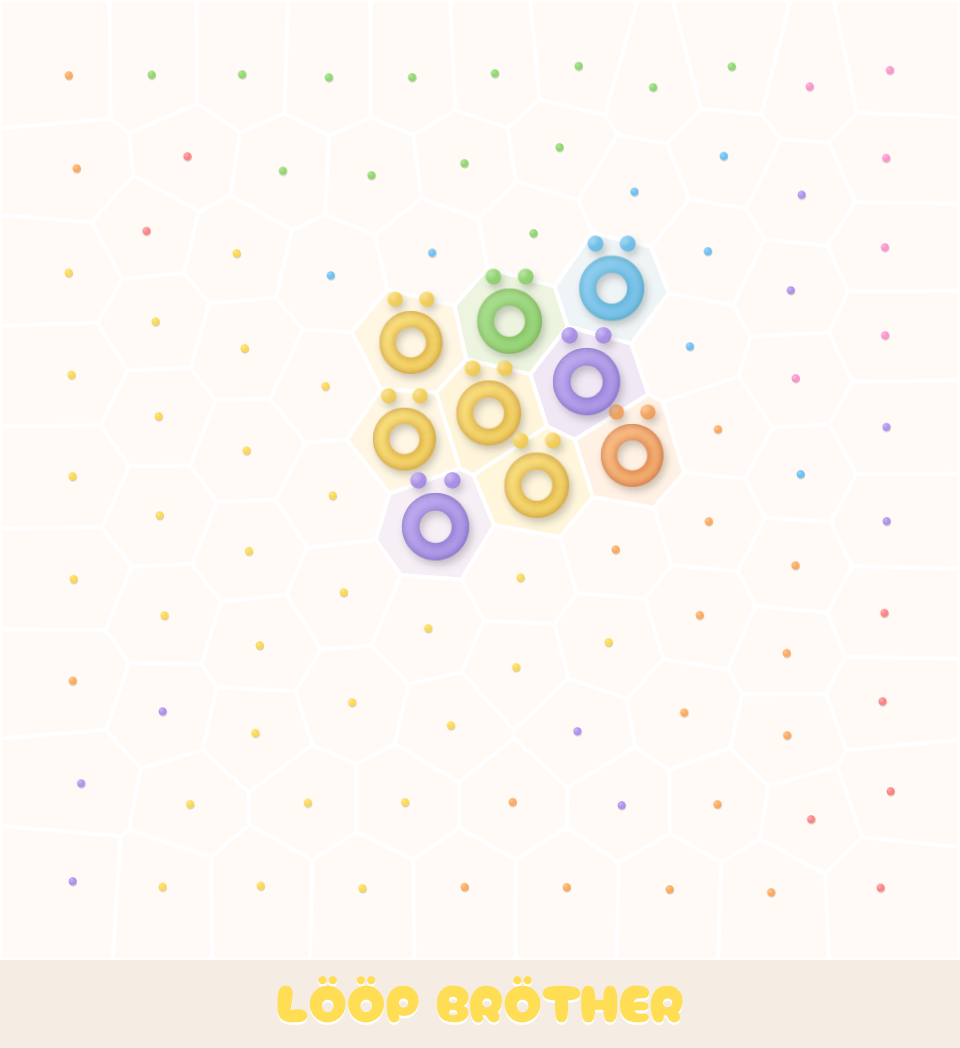
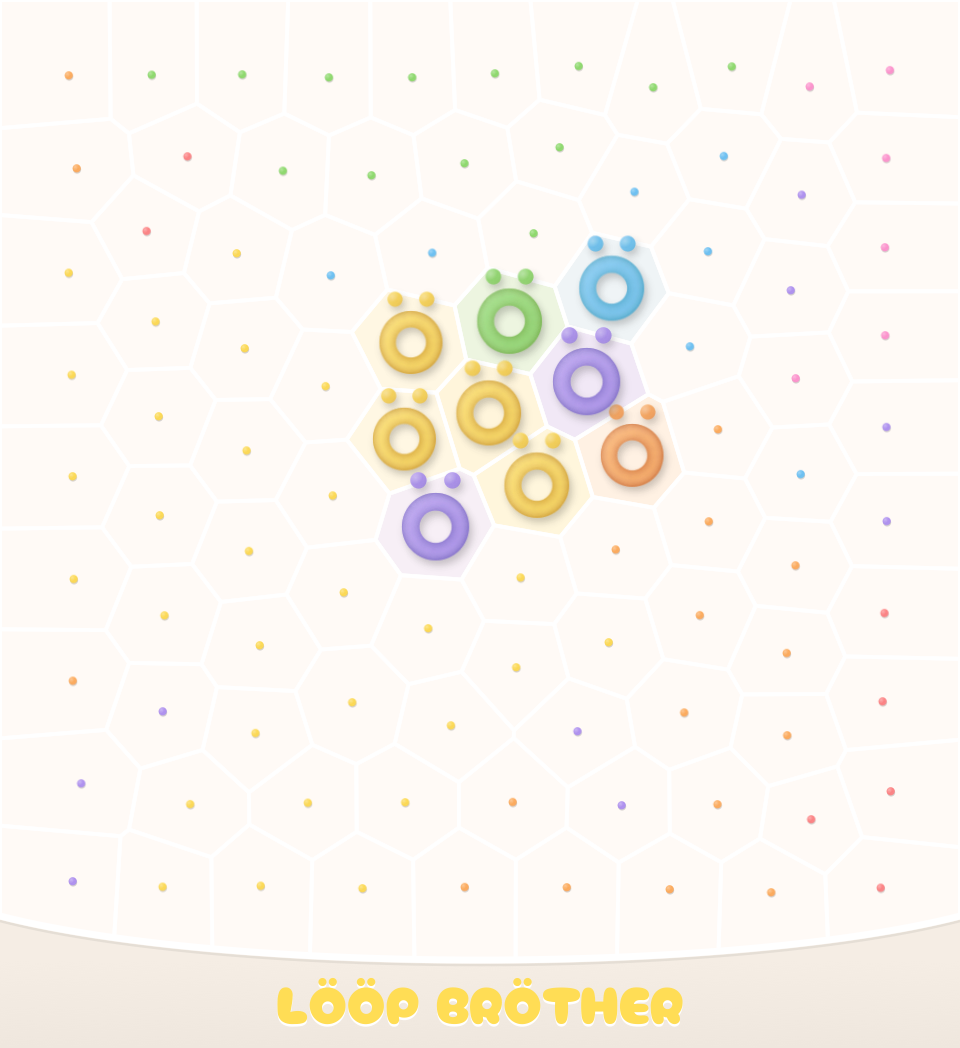
The status bar becomes the front of a cereal bowl (v0.9.5)
The bar's top edge is now the bowl's near lip: an arc of an ellipse,
lowest in the middle of the window and rising 22 px (at 480) towards the
sides, over the pad's lower corners, so the pad sits in the bowl like
cereal. It has a white rim with a soft shade under it, and the front
deepens slightly towards the foot. It's drawn over the pad
(paintOverChildren). The pad takes no presses under the lip (hitTest), so
a click on the bowl doesn't move the circle; the pad check covers both
sides of the lip. The logo stays printed on the bowl, below the rim.

Changed region(s): [[0.3125, 0.916, 0.7188, 0.9771], [0.7188, 0.8855, 1.0, 0.916], [0.0, 0.8855, 0.2812, 0.916]]

diff --git a/src/PluginEditor.h b/src/PluginEditor.h
@@ -4,8 +4,9 @@
 
 namespace jmui {
 
-// A warm off-white pad (cream) with white cell borders over a slightly
-// deeper status bar (biscuit), the breaks in the Froot Loops pastels
+// A warm off-white pad (cream) with white cell borders inside a cereal
+// bowl: the status bar is its front (biscuit, a shade deeper, with a white
+// rim), the breaks in the Froot Loops pastels
 // (Cereal.h) and the logo in the colour of the one under the circle, sunk in
 // with a white lower edge. Dark brown is for any other lettering.
 const juce::Colour white  { 0xffffffff };
@@ -29,6 +30,19 @@ public:
 private:
     juce::MouseCursor saved;
 };
+
+// The status bar is the front of a cereal bowl: its top edge is the bowl's
+// near lip, an arc of an ellipse lowest at the middle of the window and
+// rising kBowlRise (at 480 px) towards its sides, over the pad's lower
+// corners. How far above the bar's top the lip is at x, for a window w wide
+// and a pad scaled by scale:
+constexpr float kBowlRise = 22.0f, kBowlReach = 0.6f; // the ellipse's half-width, in window widths
+inline float bowlLip(float x, float w, float scale)
+{
+    const float a = kBowlReach * w, u = (x - 0.5f * w) / a, end = 0.5f / kBowlReach;
+    const float b = kBowlRise * scale / (1.0f - std::sqrt(1.0f - end * end)); // so it rises kBowlRise at the sides
+    return b * (1.0f - std::sqrt(juce::jmax(0.0f, 1.0f - u * u)));
+}
 
 // The XY pad: every break sits at its similarity-layout position and owns the
 // patch of pad nearest to it. The selection circle mixes every break whose
@@ -72,6 +86,11 @@ public:
     void mouseDrag(const juce::MouseEvent&) override;
     void mouseUp(const juce::MouseEvent&) override;
     bool dragging() const { return isDragging; }
+    // Not where the bowl's lip covers it: a press there is on the bowl.
+    bool hitTest(int x, int y) override
+    {
+        return (float) y < (float) getHeight() - bowlLip((float) x, (float) getWidth(), (float) getWidth() / 480.0f);
+    }
     void setRingStyle(const RingStyle& s) { style = &s; repaint(); } // for trying looks out
 
 private:
@@ -191,6 +210,7 @@ public:
     explicit JungleEditor(JungleProcessor&);
     ~JungleEditor() override;
     void paint(juce::Graphics&) override;
+    void paintOverChildren(juce::Graphics&) override; // the bowl's front and the logo, over the pad
     void resized() override;
     void modifierKeysChanged(const juce::ModifierKeys&) override { updateMute(); }
     // For trying fonts out: the logo in this font and spacing (its height is

diff --git a/src/PluginEditor.cpp b/src/PluginEditor.cpp
@@ -434,13 +434,40 @@ JungleEditor::~JungleEditor()
     proc.setMuteHeld(false);
 }
 
-void JungleEditor::paint(juce::Graphics& g)
+void JungleEditor::paint(juce::Graphics& g) { g.fillAll(cream); }
+
+void JungleEditor::paintOverChildren(juce::Graphics& g)
 {
-    const float scale = (float) getWidth() / kDesignSize;
-    const auto bar = statusBar().toFloat();
-    g.fillAll(cream);
-    g.setColour(biscuit); // a shade under the pad, so the logo's white edge shows
-    g.fillRect(bar);
+    const float scale = (float) getWidth() / kDesignSize, w = (float) getWidth();
+    auto bar = statusBar().toFloat();
+
+    // The bowl's front: its lip arcs up over the pad's lower corners. Biscuit,
+    // a shade under the pad so the logo's white edge shows, turning a touch
+    // deeper towards the foot, as a curved bowl takes the light.
+    juce::Path lip, front;
+    for (int i = 0; i <= 96; ++i)
+    {
+        const float x = w * (float) i / 96.0f;
+        const juce::Point<float> p { x, bar.getY() - bowlLip(x, w, scale) };
+        if (i == 0) lip.startNewSubPath(p);
+        else        lip.lineTo(p);
+    }
+    front = lip;
+    front.lineTo(w, bar.getBottom());
+    front.lineTo(0.0f, bar.getBottom());
+    front.closeSubPath();
+    g.setGradientFill(juce::ColourGradient(biscuit, 0.0f, bar.getY(), biscuit.darker(0.025f), 0.0f, bar.getBottom(), false));
+    g.fillPath(front);
+    // The rim: a white band along the lip, its rounded top catching the
+    // light, with a soft shade just under it where the bowl turns down.
+    const float rim = 3.5f * scale;
+    auto under = lip;
+    under.applyTransform(juce::AffineTransform::translation(0.0f, 0.5f * rim + 0.8f * scale));
+    g.setColour(biscuit.darker(0.12f).withAlpha(0.6f));
+    g.strokePath(under, juce::PathStrokeType(1.2f * scale));
+    g.setColour(white);
+    g.strokePath(lip, juce::PathStrokeType(rim, juce::PathStrokeType::curved, juce::PathStrokeType::rounded));
+    bar.removeFromTop(0.5f * rim); // the logo sits on the bowl below the rim
 
     // The logo as outlines, filled with the colour of the break under the
     // circle, sunk into the bar: a white copy sits below it by a quarter of

diff --git a/tests/snapshot.cpp b/tests/snapshot.cpp
@@ -448,6 +448,16 @@ int main(int argc, char** argv)
             proc.setPadHeld(false);
         }
 
+        // The bowl's lip covers the pad's lower corners: a press there is on
+        // the bowl, not the pad; just above the lip's lowest point it's the pad.
+        {
+            const int h = pad->getHeight(), wi = pad->getWidth();
+            const bool corner = pad->hitTest(3, h - 3), middle = pad->hitTest(wi / 2, h - 3);
+            std::printf("  bowl lip: a press in the lower corner reaches the pad: %s; at the middle: %s\n",
+                        corner ? "yes" : "no", middle ? "yes" : "no");
+            ok &= ! corner && middle;
+        }
+
         // The logo's colour fade keeps its saturation: halfway from pastel
         // red to pastel blue round the hue wheel, where an RGB mix greys.
         {

diff --git a/docs/HANDOFF.md b/docs/HANDOFF.md
@@ -1,7 +1,6 @@
 # LÖÖP BRÖTHER — handoff
 
-Updated: 2026-10-19 — v0.9.4, a biscuit status bar so the logo's white
-edge shows. v0.9.1 is
+Updated: 2026-10-19 — v0.9.5, the status bar is the front of a cereal bowl. v0.9.1 is
 released (github.com/minusro/loopbrother/releases).
 
 ## Where things stand
@@ -86,7 +85,13 @@ bundle ID are unchanged, so saved sessions find it.
   to 1440 px wide at that ratio (default 480x524; the
   width is saved in the plugin state and everything scales with it): a
   cream pad (#fffaf6) with white cell borders (2 px at 480), and a status
-  bar a shade deeper (biscuit, #f5ede4) so the logo's white edge shows. Every size goes through
+  bar shaped as the front of a cereal bowl holding the pad: its top edge is
+  the bowl's near lip, an arc of an ellipse lowest mid-window and rising
+  22 px (at 480) towards the sides, over the pad's lower corners, with a
+  white rim and a soft shade under it (`jmui::bowlLip`, drawn over the pad
+  in `paintOverChildren`). Presses under the lip are on the bowl, not the
+  pad (`XYPad::hitTest`). The bowl's front is biscuit (#f5ede4), a shade
+  deeper than the pad, so the logo's white edge shows. Every size goes through
   `jmui::WindowConstrainer`:
   - **Edges:** an edge drag follows that edge.
   - **Corners:** a corner drag follows the corner's further-out side, so

diff --git a/CLAUDE.md b/CLAUDE.md
@@ -41,7 +41,8 @@ mixes the breaks whose cells it covers, in sync with the host. Start with
   exactly 1 (`src/engine/PadGeometry.h`). Gains are equal power, the square
   root of the share (`jm::equalPower`), so the squared gains add up to 1.
 - The editor palette: `jmui::cream` (#fffaf6) for the pad, `biscuit`
-  (#f5ede4) for the status bar, `white` for cell borders and the logo's
+  (#f5ede4) for the status bar, which is the front of a cereal bowl (its lip
+  arcs over the pad's lower corners: `jmui::bowlLip`), `white` for cell borders and the logo's
   edge, `brown` (dark) for other
   lettering, and the 7 pastel
   `frootLoops` for the breaks, one per similarity cluster
